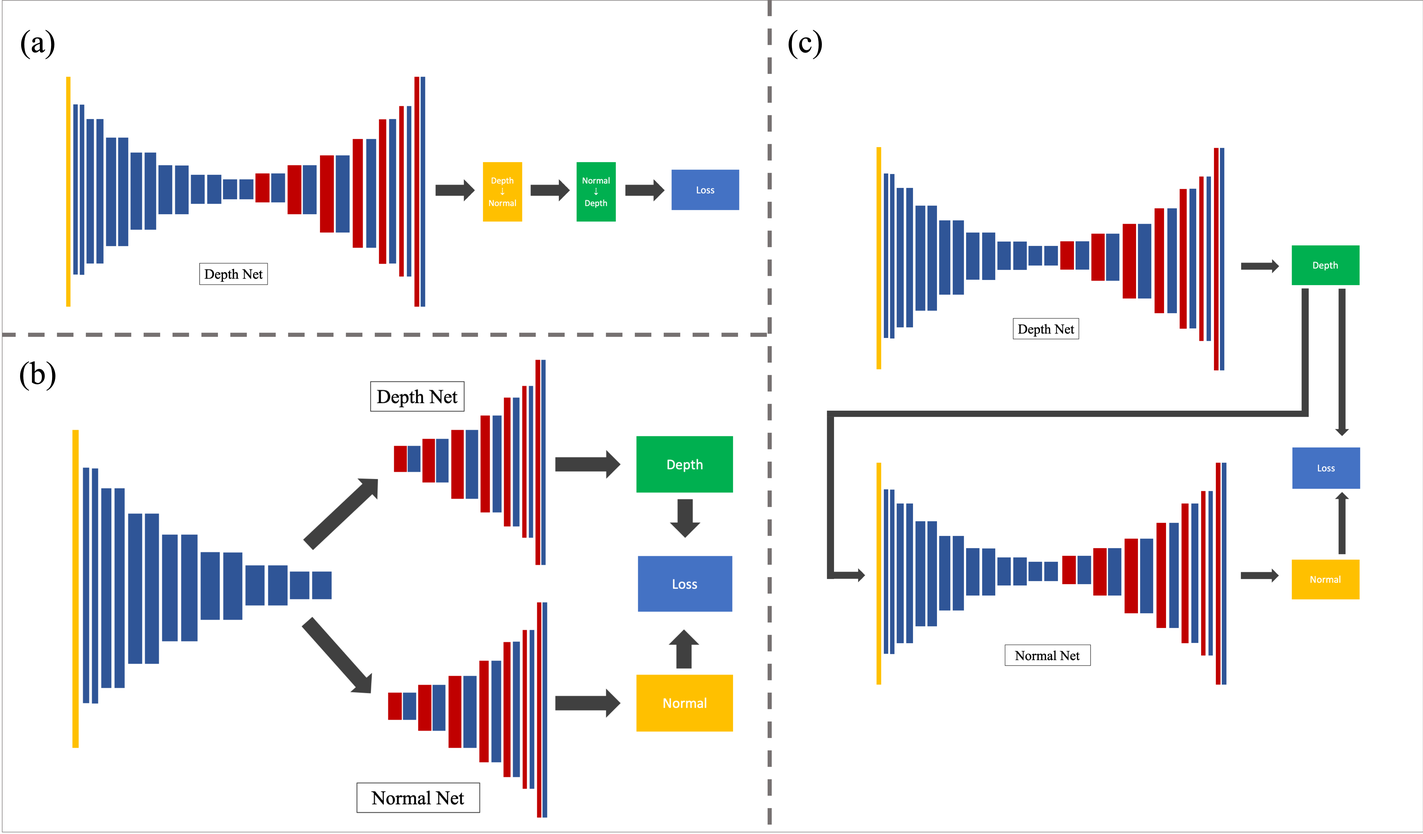
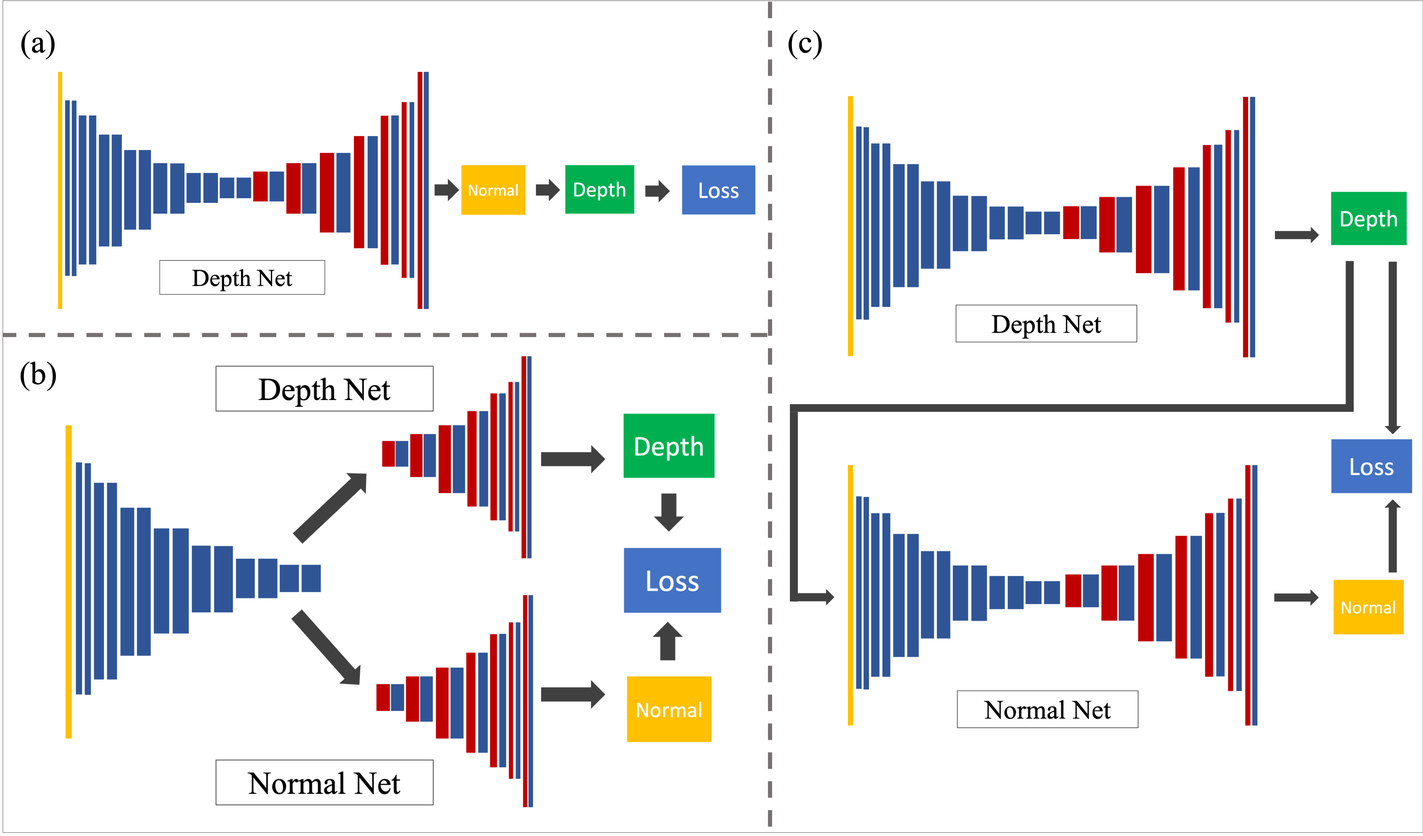
Peultimate changes

diff --git a/main.tex b/main.tex
@@ -7,6 +7,25 @@
 \usepackage{amsmath}
 \usepackage{amssymb}
 \usepackage{gensymb}
+
+\usepackage{stfloats}
+\usepackage{tablefootnote}
+
+%%%%%%%% OTHER PACKAGES
+\usepackage{float}
+\usepackage{caption} % solve for table caption spacing 
+\captionsetup[table]{skip=10pt} % to force bib position
+\usepackage[section]{placeins}
+\usepackage{subcaption}
+\usepackage{multirow} % for tabular multi-row
+\usepackage{enumitem}
+\newcommand{\denselist}{\itemsep -2pt\parsep=1pt\partopsep 0pt}
+\newcommand{\bitem}{\begin{itemize}\denselist}
+\newcommand{\eitem}{\end{itemize}}
+\newcommand{\benum}{\begin{enumerate}\denselist}
+\newcommand{\eenum}{\end{enumerate}}
+%%%%%%%%%%%%%%%
+
 \usepackage[breaklinks=true,bookmarks=false]{hyperref}
 
 \cvprfinalcopy % *** Uncomment this line for the final submission
@@ -16,7 +35,7 @@
 
 % Pages are numbered in submission mode, and unnumbered in camera-ready
 %\ifcvprfinal\pagestyle{empty}\fi
-\setcounter{page}{4321}
+\setcounter{page}{1}
 \begin{document}
 
 %%%%%%%%% TITLE
@@ -37,7 +56,7 @@ A53208258\\
 \and
 Sarah Wang\\
 A53276846\\
-{\tt\small XXXX@eng.ucsd.edu}
+{\tt\small sawang@eng.ucsd.edu}
 \and
 Tingwei Yu\\
 A53281022\\
@@ -49,22 +68,22 @@ A53281022\\
 %%%%%%%%% ABSTRACT
 \begin{abstract}
 
-Learning to reconstruct depths and camera pose from a single image in unsupervised way via deep convolutional network is attracting significant attention since Zhou proposed the unsupervised learning framework for the task of monocular depth and camera motion estimation from unstructured video sequences\cite{zhou2017unsupervised}. Our work extends their works by estimating depth map, camera pose and surface normal map together in an end-to-end framework. We verified that deep network approaches benefit from explicit geometric cues and constraints. Therefore, we take advantage both instance-level and semantic-level segmentation to make the framework edge-aware, while use the consistency between depth and normal, yielding more robust prediction for both depths, surface normals and ego-motions. Evaluations are conducted on both outdoor(KITTI) and indoor(NYUv2) datasets, also we did ablation study for different geometric constraint scenarios.  
+Learning to reconstruct depths and camera pose from a single image in unsupervised approach via deep convolutional network is attracting significant attention since Zhou proposed the unsupervised learning framework for the task of monocular depth and camera motion estimation from unstructured video sequences\cite{zhou2017unsupervised}. Our work extends their work by estimating depth map, camera pose and surface normal map together in an end-to-end framework. We verify that deep network approaches benefit from explicit geometric cues and constraints. Therefore, we take advantage both instance-level and semantic-level segmentation to make the framework edge-aware while using the consistency between depth and normal, yielding more robust prediction for both depths, surface normals and ego-motions. Evaluations are conducted on both outdoor(KITTI) and indoor(NYUv2) datasets. Ablation studies regarding different geometric constraints are conducted to compare their effectiveness.  
 
 \end{abstract}
 
 %------------------------------------------------------------------------
 
 \section{Introduction}
-Inferring camera poses, depths and surface normal of a scene at a detailed level is crucial for 3D scene understanding. Recovering these information from monocular images can be widely applied in various real-world applications. For instance, in robot navigation, this enables the robot to avoid obstacles and travel through unseen areas. The ability to estimate depth and surface normal also facilitates 3D reconstruction of the environment and can be applied in the field of augmented reality.
-Recently, there has been remarkable achievements in unsupervised pose and depth estimation using monocular cameras. Works such as \cite{zhou2017unsupervised} has significantly reduced human effort to obtain large quantities of color-depth image pairs for training while also yielding comparable results to supervised approaches. The key concept is to use two consecutive image frames where one is used as the target frame and the other used as the source frame. The source frame is then warped to the target frame using the estimated pose and depth. Following works attempt to exploit more geometric cues and constraints to improve the depth results.\cite{yang2018lego} refines the estimated depth by leveraging the constraint between surface normal and depth map as well as using image gradients to represent edges where depth discontinuities can occur.  \cite{casser2018depth} takes additional instance-level segmentation information as input and predicts poses for the background and each object separately. \\
+Inferring camera poses, depths and surface normal of a scene at a detailed level is crucial for 3D scene understanding. Recovering these information from monocular images can be widely applied in various real-world applications. For instance, in robot navigation, this enables the robot to avoid obstacles and travel through unseen areas. The ability to estimate depth and surface normal also facilitates 3D reconstruction of the environment and can be applied in the field of augmented reality. \\
+Recently, there has been large progress in unsupervised pose and depth estimation using monocular cameras. Works such as \cite{zhou2017unsupervised} has significantly reduced the human effort to obtain large quantities of ground truth color-depth image pairs for training while also yielding comparable results to supervised approaches. The key concept is to use view synthesis as supervision by warping a image in a sequence to its consecutive frames. Following works attempt to exploit more geometric cues and constraints to improve the depth results.\cite{yang2018lego} refines the estimated depth by leveraging the constraint between surface normal and depth map as well as using image gradients to represent edges where depth discontinuities can occur.  \cite{casser2018depth} takes additional instance-level segmentation information as input and predicts poses for the background and each object separately. \\
 In our work, we study the effects of posing various geometric constraints on the quality of depth estimation. First, we show that by utilizing additional semantic segmentation information, the model is able to learn the boundaries of the scene objects and generate sharper depth results. Second, we investigate how edge detection lead to better depth predictions. Last, we compare the results of the normal-depth constraint used in \cite{yang2018lego} and the patch-based photometric consistency constraint used in  \cite{furukawa2010accurate}. Evaluation on the KITTI dataset demonstrates the effectiveness of different approaches.
 
 
 %------------------------------------------------------------------------
 \section{Related work}
 \textbf{Warping-based view synthesis}
-View synthesis aims to create new view of a specific subject starting from a number of pictures taken from other point of views. Classic paradigm for view synthesis to first either estimate the underlying 3D geometry explicitly or establish pixel correspondence among input views, and then synthesized the novel views by compositing image patches from the input views\cite{malik1996modeling}\cite{fitzgibbon2005image}\cite{DBLP:journals/tog/ZitnickKUWS04}. Another common approach is to synthesize images without explicitly estimate the geometry.For example, Mahajan\cite{shechtman2010regenerative} propose to move the gradients in the input images along a specific path to reconstruct the image at a novel view. Shechtman\cite{shechtman2010regenerative} propose a patch-based optimization framework to reconstruct images at novel views. Also, the end-to-end learning based framework DeepStereo\cite{DBLP:journals/corr/FlynnNPS15}, However, unlike the warping-based methods, such frameworks only work on the inputs and output, without learning intermediate predictions of geometry and correspondence. 
+View synthesis aims to create novel view of a specific subject from images taken from other point of views. Classic paradigm for view synthesis explicitly reconstruct the accurate 3D model of the scene, then composite novel view from the input images \cite{malik1996modeling}\cite{fitzgibbon2005image}\cite{DBLP:journals/tog/ZitnickKUWS04}. Another common approach is to synthesize images without explicitly estimating the 3D geometry of the scene. For instance, Mahajan\cite{shechtman2010regenerative} proposed to move the gradients in the input images along a specific path to reconstruct the image at a novel view. Shechtman\cite{shechtman2010regenerative} proposed a patch-based optimization framework to reconstruct novel views. The end-to-end learning based framework DeepStereo\cite{DBLP:journals/corr/FlynnNPS15}, on the other hand, uses two towers to predict depth and color and fused them together to construct the novel view.  However, unlike the warping-based methods, such frameworks only work on the inputs and output, without learning intermediate predictions of geometry and correspondence. 
 \\
 \textbf{Unsupervised learning from videos} Unsupervised learning of visual representations has a
 rich history starting from original auto-encoders work of Olhausen and Field\cite{olshausen1997sparse}. To get the visual representation from video, the general goal is to design pretext tasks for learning generic visual features, that are sparse and reconstructive, from video data that can later be re-purposed for other vision tasks. Researchers have started focusing on learning feature representations using videos. Early work such as\cite{zou2012deep} focused on inclusion of constraints via video to autoencoder framework. The most common constraint is enforcing learned representations to be temporally smooth. Similar to this, Goroshin et al.\cite{goroshin2015unsupervised} proposed to learn autoencoders based on the slowness prior. Other approaches such as Taylor et al.\cite{taylor2010convolutional} trained convolutional gated RBMs to learn latent representations from pairs of successive images. This was extended in a recent work by Srivastava et al.\cite{srivastava2015unsupervised} where they proposed to learn a LSTM model in an unsupervised manner to predict future frames.
@@ -72,76 +91,157 @@ rich history starting from original auto-encoders work of Olhausen and Field\cit
 \textbf{Image segmentation}
 Semantic segmentation with the goal to assign semantic labels to every pixel in an image is one of the fundamental topics in computer vision. Deep convolutional neural networks based on the Fully Convolutional Neural Network show striking improvement over systems relying on hand-crafted features on benchmark tasks. DeepLab is a state-of-art deep learning model for semantic image segmentation. The most state-of-the-art work, DeepLabv3+\cite{deeplabv3plus2018} extends DeepLabv3\cite{chen2017rethinking} to include a simple yet effective decoder module and a spatial pyramid pooling module to refine the segmentation results especially along object boundaries. Furthermore, in this encoder-decoder structure one can arbitrarily control the resolution of extracted encoder features by atrous convolution to trade-off precision and runtime.
 %%%%%%%%%%%%%%%%5instance level here
-\subsection{Supervised surface normal prediction}
 
 
 %------------------------------------------------------------------------
 \section{Method}
-The approaches we stress here are used for jointly estimating depths, surface normal and ego-motions. The core underlying idea is inverse warping from target view to source view with awareness of 3D geometry, and a depth-normal consistency. 
+The approaches we stress here are used for jointly estimating depths, surface normal and ego-motions. The core underlying idea is inverse warping from target view to source view with awareness of 3D geometry and depth-normal consistency. 
 \subsection{Network architecture}
 \textbf{Depth and Normal Net}
-For the depth as well as surface normal estimation, we adopted the DispNet(add related) architecture which uses an encoder followed by a decoder with skip connections and multi-scale side outputs. The depth and normal net share the same encoder while having different decoders to predict depth and normals separately. Other than the final output layer which has a sigmoid function applied to enforce the predictions in an reasonable range, the other conv layers of both nets are followed by ReLU activations.\\  
+For depth and surface normal estimation, we adopted the DispNet \cite{mayer2016dispnet} architecture which uses an encoder followed by a decoder with skip connections and multi-scale side outputs. The depth and normal net share the same encoder while having different decoders to predict depth and normals separately. Other than the final output layer which has a sigmoid function applied to enforce the predictions in an reasonable range, the other conv layers of both nets are followed by ReLU activations.\\  
 \textbf{Pose Net}
-We adopted the pose net architecture purposed in (related work) for camera pose estimation. The input of the network is the target-source frame pairs, and the output is the 6D camera pose from each target frame to the source frame. All conv layers except for the final output layer, where no non-linear activation is applied, are followed by ReLU activations.
+We adopted the pose net architecture purposed in \cite{zhou2017unsupervised}, the input of the network is the target-source frame pair, and the output is the 6D camera pose from each target frame to the source frame. All conv layers are followed by ReLU activations except for the final output layer, where no non-linear activation is applied.
 \subsection{View synthesis as supervision}
-The baseline for our work is from Zhou et al.\cite{zhou2017unsupervised}. From the multiple view geometry, for a target view  image $I_t$ and a source view $I_s$, given an estimated depth map $D_t$ of target view and the estimated transformation with 6 DOF $T_{t\xrightarrow{}s}$ from $I_t$ to $I_s$, thus, for any pixel $p_t$ in target view $I_t$ can be found through perspective projection. Given such relationship, a syntehsized target view $\hat{I_s}$ can be generated from $I_s$ through bilinear interpolation. Finally, by comparing the photometric error between the original target view $I_t$ and the synthesized one $\hat{I_s}$, thus, problem now went to a supervised one. The photometric loss can be formulated as 
+Following the notation used in \cite{zhou2017unsupervised}, given a pair of images consisting of a target frame $I_t$ and a source frame $I_s$, we can estimate the depth map $\hat{D_t}$ of the target view and the 6-DOF transformation $\hat{T}_{t\xrightarrow{}s}$ from $I_t$ to $I_s$. Thus, for any pixel $p_t$ in the target frame $I_t$, its corresponding pixel coordinate in the source frame $p_s$ can be found through perspective projection. 
+
+\begin{equation}
+    p_s \sim K\hat{T}_{t\xrightarrow{}s}\hat{D_t}(p_t)K^{-1}p_t
+\end{equation}
+Using this correspondence, a synthesized target view $\hat{I_s}$ can be generated from $I_s$ through bilinear interpolation. Viewing the target frame as our reference, the photometric loss can be formulated as 
 \begin{equation}
     L_{vs} = \sum_s\sum_p |I_t(p) - \hat{I_s}(p)|
 \end{equation}
-where $p$ indexes over pixel coordinates and $I_s$ is the source view $I_s$ warped to the target coordinate frame based on a depth image-based rendering module, taking the predicated depth $\hat{D_t}$, the predicted $4 \times 4$ camera transformation matrix $\hat{T_{t\xrightarrow{}s}}$ and the source view $I_s$ as input. Thus, the projected point
-\begin{multline}
-        \hat{I_s}(p_t) = I_s(p_s)=\sum_{i\in{t,b}, j\in{l,r}} w^{ij}I_s(p_s^{ij})
-    \\
-    where\quad p_s \sim K\hat{T_{t\xrightarrow{}s}}\hat{D_t}(p_t)K^{-1}p_t
-\end{multline}
-\textbf{Regularization of depth} Due to one pixel can match to many candidates. Thus, extra regularization is required to learn reasonable depth prediction. One common strategy is to encourage the estimated depth to be locally similar when no significant image gradient exists, that is 
+by summing over all pixels $p$ and source images $s$. $\hat{I_s}$ is the source view $I_s$ warped to the target coordinate frame.\\
+\textbf{Regularization of depth} In order to produce smooth depth results, a smooth loss is added for regularization. This loss encourages the estimated depth to be locally similar when no significant image gradient exists, that is 
 \begin{equation}
-    L_s(D_t, 2) = \sum_{pt}\sum_{d\in x, y}||\bigtriangledown_d^2D_t(p_t)||e^{-\alpha|\bigtriangledown_dI(p_t)|}
-\end{equation}
-\textbf{Photometric pixel loss} In addition to the reconstruction loss and smooth loss, Structural Similarity(SSIM)\cite{wang2004image} loss was applied to be part of pixel loss, where
+    L_s = \sum_{pt}\sum_{d\in x, y}||\bigtriangledown_d^2D_t(p_t)||e^{-\alpha|\bigtriangledown_dI(p_t)|}
+\end{equation}.
+
+\textbf{Photometric pixel loss} In addition to the reconstruction loss and smooth loss, Structural Similarity(SSIM)\cite{wang2004image} loss is applied to be part of pixel loss, where
 \begin{equation}
     L_{pixel} = \alpha_{pixel} \frac{(2\mu_x\mu_y + C_1)(2\sigma_{xy} + C_2)}{(\mu_x^2 + \mu_y^2 + C1)(\sigma_x^2 + \sigma_y^2 + C_2)}
 \end{equation}
 \subsection{Edge-aware depth estimation}
-There are two components to parameterize and then learn the geometrical edges. First is to use the image gradient: we compute a gradient map of the target image and synthesized target images, and make it a gradient matching error to the total loss function\cite{casser2018depth}.
+In this section, we illustrate two ways to parameterize geometric edges. First is to use the image gradient: we compute a gradient map of the target image $I_t$ and synthesized target image $\hat{I_s}$, and require the two gradient images to match as described in \cite{yang2017unsupervised}.
 \begin{equation}
-    L_g(D_n, T, M) = \sum_{s=1}^S\sum_{x_t}M_s(x_t)||\bigtriangledown I_t(x_t) - \bigtriangledown\hat{I_s}(x_t)||_1
+    L_g = \sum_{s=1}^S\sum_{x_t}M_s(x_t)||\bigtriangledown I_t(x_t) - \bigtriangledown\hat{I_s}(x_t)||_1
 \end{equation}
-Another way is to jointly learn the edge map $E_t$ for the target image from semantic mask. Here we have the intervening contour cue fro measuring the affinity between two pixels. Specifically, we parameterize the prediction of $E_t$ using a decoder network same to dispnet, and add another edge loss term(computed from semantic masks) to loss function.
+Here, $M_s(x_t)$ is the explainablitiy mask as in \cite{zhou2017unsupervised}. Another way to parameterize edges is to jointly learn the edge map $E_t$ for the target image from semantic mask. Here we have the intervening contour cue for measuring the affinity between two pixels. Specifically, we parameterize the prediction of $E_t$ using a decoder network same to DispNet, and add another edge loss term(computed from semantic masks) to loss function.
 \subsection{Depth-normal consistency constraints}
-\textbf{Depth and normal orthogonality constraint} To train the normal network, we applied the depth-normal orthogonality constraint purposed in (xx) to our network. This could enforce the predicted surface normal to be perpendicular to its tangent plane. Where for each pixel $p_i$ in the target view, we compute sum of the dot products between the estimated normal and the vectors pointing from the pixel to it's 8 neighboring pixels as shown in figure ?. The equation is written as,
+\textbf{Depth and normal orthogonality constraint} To train the normal network, we applied the depth-normal orthogonality constraint purposed in \cite{yang2017unsupervised} to our network. This could enforce the predicted surface normal to be perpendicular to its tangent plane. Where for each pixel $x_i$ in the target view, we compute sum of the absolute dot products between the estimated normal and the vectors pointing from the pixel to it's 8 neighboring pixels as shown in \ref{fig:8point}. The equation is written as,
 \begin{multline}
-    L_{orth}(\hat{D_t}, \hat{N_t}) = \sum_{i\in t}\sum_{j\in Nei(i)}||[ \phi(x_j) - \phi(x_i)] \hat{N_t}(x_i)||_1 
+    L_{orth} = \sum_{i\in t}\sum_{j\in Nei(i)}||[ \phi(x_j) - \phi(x_i)] \hat{N_t}(x_i)||_1 
     \\
-    where\phi(x) = D_t(x)K^{-1}x
+where \phi(x) = D_t(x)K^{-1}x
 \end{multline}
-
-where $Nei(x_i)$ is the set of 8 neighboring pixels of $x_i$, and $\hat N(x_i)$ and $\hat D(x_i)$ are the estimated surface normal and depth of the corresponding pixel. We define $\phi(x_i)$ as the back-projected 3D point of pixel $x_i$ in the 3D space, thus $\phi(x_j) - \phi(x_i)$ is the vector pointing from the center pixel to the neighboring pixels in the world coordinates. \\
+where $Nei(x_i)$ denotes the set of 8 neighboring pixels of $x_i$, $K$ the camera intrinsic matrix and $\hat N(x_i)$ and $\hat D(x_i)$ the estimated surface normal and depth of the corresponding pixel, respectively. We define $\phi(x_i)$ as the back-projected 3D point of pixel $x_i$ in the 3D space, thus $\phi(x_j) - \phi(x_i)$ is the vector pointing from the center pixel to the neighboring pixels in the world coordinates. \\
 Since we don't have direct supervision for $N(x_i)$, training for the above equation would result into always predicting the values in $\hat{N}$ to zero. Thus we concluded an additional regularization term $L_n$ in the loss function, where we enforce the norm the predicted surface normal to be 1.
 \\
-\textbf{Patch-based depth and normal constraint} Through experiments we observed that only enforcing the depth and normal orthogonality correlation could not provide our network enough geometry cues to reconstruct the surface normals.(fig.?) Thus, we applied the patched-based depth and normal constraint to our network based on previous works (add related works). For each pixel in the target image, we reconstructed a $n\times n$ patch in the 3D space with the center calculated by back-projecting the pixels(fig.?). The orientation of the patch is given by the estimated surface normal and we assign one of its edges to be parallel to the x-axis of the target frame. Through re-projecting each patch back in to the target image $I_t$ as well as the source image $I_s$, we sample the intensities of the patch in both views through bilinear interpolation to acquire $I_{p_ti}$ and $I_{p_si}$. The loss term $L_{patch}$ is then the sum of L1 difference of the intensities between each pair of patches. (fig. ?)
-\subsection{Geometric structure refinement}
-% \subsection{Photometric error from view synthesis}
+\textbf{Patch-based depth and normal constraint} Through experiments we observed that by only enforcing the depth and normal orthogonality correlation could not provide our network enough geometry cues to reconstruct the surface normal.(fig. \ref{fig:KITTI_orth}) Thus, we applied the patched-based depth and normal constraint to our network based on previous works \cite{furukawa2010accurate}. For each pixel in the target image, we reconstructed a $\mu \times \mu$ patch $p$ in the 3D space with the center calculated by back-projecting the pixel (fig.\ref{fig:patch}). The orientation of the patch is given by the estimated surface normal and we assign one of its edges to be parallel to the x-axis of the target frame. Through re-projecting each patch back in to the target image $I_t$ as well as the source image $I_s$, we sample the intensities of the patch in both views through bilinear interpolation to acquire $I_{t,p_i}$ and $I_{s,p_i}$. The loss term $L_{patch}$ is then the sum of L1 difference of the intensities between each pair of patches. 
+\begin{figure}
+  \includegraphics[width=\columnwidth ]{8point.png}
+  \caption{Depth and normal orthogonality constraint. To enforce the predicted surface to be perpendicular to the tangent surface, we compute the dot product between the estimated normal and the 8 vectors pointing from the center pixel to the neighboring pixels.}
+  \label{fig:8point}
+\end{figure}
+\begin{figure}
+  \includegraphics[width=\columnwidth ]{patch.png}
+  \caption{Patched-based depth and normal constraint. For each pixel, we reconstruct a patch in the 3D space. The center of the patch $c(x)$ is obtained by back-projecting the pixel with the estimated depth, intrinsic matrix and extrinsic matrix. The orientation of the patch is given by estimated normal $N(x)$.}
+  \label{fig:patch}
+\end{figure}
+
+\subsection{Object motion model with semantic priors}
+Adapting the work of \cite{casser2018depth} which explicitly models the 3D motion of dynamic objects along with ego-motion of camera, we extend this work further by integrating semantic information of scene to improve depth prediction. Intuitively, semantic information encodes spatial constraints which can explain depth and normal discontinuities. Our depth network takes as input RGB sequence along with corresponding semantic segmentation(pixel-wise), encoded in one-hot encoding format. The ego-motion network $\phi_{E}$ is used to predict egomotion of static background and object motion model $\phi_{M}$ is used to predict motion of individual dynamic objects. $\phi_{E}$ and $\phi_{M}$ share the same architecture but different inputs. 
+
+We define instance-aligned segmentation masks $(S_{1}, S_{2}, S_{3})$ for corresponding sequence $(I_{1}, I_{2}, I_{3})$. In order to compute egomotion motion of static scene only, we define static scene binary mask $(O_{1}, O_{2}, O_{3})$ where $O_{i}'s$ are binary complement of $S_{i}'s$. The static binary mask is applied to all images in sequence by element-wise multiplication to mask out dynamic objects before feeding the sequence to ego-motion model:
+\begin{multline}
+    V = O_{1} \odot O_{2} \odot O_{3} 
+    \\
+E_{1\rightarrow2}, E_{2\rightarrow3} = \phi_{E}(I_{1} \odot V, I_{2} \odot V, I_{3} \odot V) 
+\end{multline}
+
+To compute object motion model, we first apply ego-motion estimates to get warped RGB sequences $(\hat I_{1\rightarrow2}, I_{2}, \hat I_{3\rightarrow2}$ and instance-aligned segmentation sequences $(\hat S_{1\rightarrow2}, S_{2}, \hat S_{3\rightarrow2}$. Now, for every object instance in image, the object motion estimate $M^{(i)}$ of the \textit{i}-th object is computed as:
+
+\begin{multline}
+        M_{1\rightarrow2}^{(i)}, M_{2\rightarrow3}^{(i)} = \phi_{M}(\hat I_{1\rightarrow2} \odot \psi_{i}(\hat S_{1\rightarrow2}),
+    \\
+    I_{2} \odot \psi_{i}(S_{2}), \hat I_{3\rightarrow2} \odot \psi_{i}(\hat S_{3\rightarrow2})
+\end{multline}
+
+where $M_{1\rightarrow2}^{(i)}, M_{1\rightarrow2}^{(i)} \in \mathbb{R}^{6}$ and $\psi_{i}(S_{1})$ returns binary mask only for object \textit{i} in  $S_{1}$. Now, corresponding to these motion estimates, inverse warping is done to move the objects according to predicted motions. This is done by first warping the full image using motion estimate and then masking out the corresponding object. For example, $\hat I_{1\rightarrow2}^{(i)}$ is obtained by using motion estimate $M_{1\rightarrow2}^{(i)}$. Final warped image is a combination of warped static background and individual warping of each dynamic object. Final warped image $\hat I_{1\rightarrow2}^{(F)}$ given by:
+
+\begin{multline}
+\hat I_{1\rightarrow2}^{(F)} = \hat I_{1\rightarrow2} \odot V + \sum_{i=1}^{N} \hat I_{1\rightarrow2}^{(i)} \odot \psi_{i}(S_{2})
+\end{multline}
+
+Equivalent for $\hat I_{3\rightarrow2}^{(F)}$ can be found using above equation. We also impose object size constraint as in \cite{casser2018depth}, to make sure the network is learning reasonable depth matching object motion estimates. 
+\begin{figure}
+    \centering
+    \includegraphics[width=\linewidth]{architecture.png}
+    \caption{Our unsupervised architecture contains DepthNet, PoseNet and MotionNet}
+    \label{fig:arch}
+\end{figure}
+%%%%%%%%%%%%%%% RESULT
+\begin{figure}[t]
+  \includegraphics[width=\columnwidth]{dresult.png}
+  \caption{Depth-result using our best model}
+  \label{fig:depth_result}
+\end{figure}
 %------------------------------------------------------------------------
+
+\begin{table*}[htbp]
+\centering
+\begin{tabular}{ c||c| c c c c|c c c  }
+ \hline
+  \multirow{2}{*}{Method} & \multirow{2}{*}{Supervised} & \multicolumn{4}{c|}{Error-related metrics} & \multicolumn{3}{c}{Accuracy-related metrics}\\
+  &   & Abs Rel & Sq Rel & RSME & RSME log & $\delta < 1.25$ & $\delta < 1.25^2$ & $\delta < 1.25^3$\\
+ \hline
+ Eigen \textit{et al.} \cite{eigen2014depth} Coarse & Depth & 0.214 & 1.605 & 6.653 & 0.292 & 0.673 & 0.884 & 0.957 \\
+
+  Eigen \textit{et al.} \cite{eigen2014depth} Fine & Depth & 0.203 & 1.548 & 6.307 & 0.282 & 0.702 & 0.890 & 0.957 \\
+
+  Liu \textit{et al.}  \cite{liu2016learning} & Depth & 0.202 & 1.614 & 6.523 & 0.275 & 0.678 & 0.895 & 0.965 \\
+
+  Godard \textit{et al.} \cite{godard2017unsupervised}  & Pose & 0.148 & 1.344 & 5.927 & 0.247 & 0.803 & 0.922 & 0.964 \\
+
+  Zhou \textit{et al.} \cite{zhou2017unsupervised} updated & No & 0.183 & 1.595 & 6.709 & 0.270 & 0.734 & 0.902 & 0.959\\
+
+  Yin \textit{et al.} \cite{yin2018geonet} & No & 0.155 & 1.296 & 5.857 & 0.233 & 0.793 & 0.931 & 0.973 \\
+
+  \hline
+  \textbf{Ours[]} & No & \textbf{0.133} &     \textbf{0.905} &     \textbf{5.181} &     \textbf{0.208} &     \textbf{0.825} &     \textbf{0.947} &     \textbf{0.981}\\
+  
+  Ours(joint training, orthogonality constraint) & No & 0.2488 & 4.9442 & 8.1843 & 0.3169 & 0.6992 & 0.8776 & 0.9425 \\
+  
+  Ours(SSIM weight 0.3 - sec3.2) & No &  0.2061 & 2.8608 & 6.9693 & 0.2780 & 0.7349 & 0.9016 &     0.9561 \\
+  
+  Ours(gradient weight 0.3 - sec3.3) & No & 0.2189 & 3.1845 & 7.3001 & 0.2836 & 0.7288 & 0.8973 &  0.9551 \\
+ \hline
+\end{tabular}
+\caption{Monocular depth results on KITTI 2015 \cite{menze2015object} by the split of Eigen
+\textit{et al.} \cite{eigen2014depth} Our model used scale normalization.}\label{tab:depth_pred}
+\end{table*}
+
+
 \section{Experiments}
+\begin{figure}
+  \includegraphics[width=\columnwidth ]{network.png}
+  \caption{Network architectures for different experiments. (a) For the edge-aware experiments, the network architecture is based on (include related work), where we compute the normal directly from the predicted depth. (b)While evaluating the patch based photo-consistency constraints, the normal and depth net shares a single encoder and uses different decoders to separately predict depth. (c)To train the normal network with only the depth and normal orthogonality constraint, we froze the depth network and individually trained the normal network with an additional estimated depth input to get reasonable results.}
+  \label{fig:network}
+\end{figure}
+
 \subsection{Datasets and metrics}
 We conducted experiments on depth and normal estimation. The performances are evaluated on two popular datasets: KITTI for outdoor scene and NYUv2 for indoor scene.
 For depth evaluation, we adopted those used in Zhou et al.\cite{zhou2017unsupervised}, details are shown on table\ref{table1:depth_eval}
-\begin{figure*}[t!]
-  \includegraphics[width=\linewidth]{network.png}
-  \caption{Network architectures for different experiments}
-  \label{fig:network}
-\end{figure*}
 
 \begin{table*}
 \centering
-\caption{Depth evaluation metrics}
 \label{table1:depth_eval}
 \begin{tabular}{l|l}
  Threshold: $\% of y_i, s.t. max(\frac{y_i}{y_i^*}, \frac{y_i^*}{y_i})=\delta < thr $&  RMSE(linear):$\sqrt{\frac{1}{|T|}\sum_{y\inT}||y_i - y_i^*||^2}$ \\
  Abs Relative difference: $\frac{1}{|T|}\sum_{y\in T||y-y^*||/y^*}$ &  RMSE(log):$\sqrt{\frac{1}{|T|}\sum_{y \in T}||log y_i - log y_i^*||^2}$ \\
  Squared Relative difference:$\frac{1}{|T|}\sum_{y\in T||y-y^*||^2/y^*}$ & 
 \end{tabular}
+\caption{Depth evaluation metrics}
 \end{table*}
 
 For normal evaluation, we
@@ -149,46 +249,24 @@ implement the evaluation metrics in\cite{fouhey2013data}: in addition to reporti
 RMSE on a per-pixel-basis, we report three pixel-accuracy
 metrics, or percent-good-pixels (i.e., the fraction of pixels with cosine distance to ground-truth less than t) with $t = 11.25\degree, 22.5\degree, 30\degree$.
 
-\subsection{Depth and normal experiments}
-Like \cite{zhou2017unsupervised}, We implemented the system using TensorFlow framework. For all the experiments, we set $\lambda_s = 0:5=l$ (l is the downscaling factor for the corresponding scale) and $\lambda_e = 0:2$. During training, we used batch normalization for all the layers except for the output layers, and the Adam optimizer with $\beta_1 = 0:9$, $\beta_2 = 0:999$, learning rate of $0:0002$ with $\%95\%$ decay and mini-batch size of 4. The training typically converges after about 150K iterations. All the experiments are performed with image sequences captured with a monocular camera. We resize the images to $128 × 416$ during training.
-For ssim pixel loss, weight is set to 0.3. For depth edge-awareness training, we set the gradient weight to 0.5, while use the semantic mask as input to edge net and the weight is set to 0.3.
-For normal map, there are two ways that make the normal map contribute to the final result: first is to set the normal smooth loss and second is to do depth-normal constraints. Here we apply normal smooth loss term the same to depth, 0.5. During the training times, we also test various weight to add depth-normal constriants(infer normal from depth and back compute depth from normal).\\
+\subsection{Training}
+Like \cite{zhou2017unsupervised}, We implemented the system using TensorFlow framework. For all the experiments, we set $\lambda_s = 0.5=l$ (l is the downscaling factor for the corresponding scale) and $\lambda_e = 0.2$. During training, we used batch normalization for all the layers except for the output layers, and the Adam optimizer with $\beta_1 = 0:9$, $\beta_2 = 0:999$, learning rate of $0.0002$ with $\%95\%$ decay and mini-batch size of 4. The training typically converges after about 150K iterations. All the experiments are performed with image sequences captured with a monocular camera. We resize the images to $128 × 416$ during training.
+\\
 Similar to Yang et al.\cite{yang2018lego}, we evaluate the normal map(either from direct-prediction or from depth inference) by comparing to the ground truth normal, which is generated by applying depth-to-normal layer on interpolated depth ground truth. The normal evaluation is performed
 on KITTI dataset. The comparison of normal evaluations on KITTI split is presented in???. 
+\subsection{Edge-aware depth experiments}
+In this section we experimented edge-aware methods with the architecture shown in fig.\ref{fig:network}(a). We obtain the surface normal by directly computing from the estimated depth and calculate the loss as mentioned in \cite{yang2017unsupervised}, where it is inferred  directly from the predicted depth. For SSIM pixel loss, weight is set to 0.3. For depth edge-awareness training, we set the gradient weight to 0.5, while use the semantic mask as input to edge net and the weight is set to 0.3.
+To leverage the normals in our loss function, we add an additional normal smooth loss term as we did for the depth and set the weight to 0.5. The results are shown in the \ref{table1:depth_eval}.
 
-\subsection{Direct normal prediction experiments}
-In this section we analyze our approaches on directly predicting the normals qualitatively and quantitatively. 
+\subsection{Normal Net experiments}
+In this section we analyze our approaches on directly predicting the surface normal qualitatively. 
 \\
 \textbf{Evaluation on the depth and normal orthogonalily constraint}
-To evaluate the depth and normal orthogonality constraint, we first jointly train the depth and normal net by only leveraging the $L_{vs}$ and $L_{orth}$ in our loss function. Yet, the results aren't very promising.(table.?) The network can not generate meaningful surface normal and also degraded the depth predictions. Thus, we independently train the normal net along with the pre-trained depth net to obtained more meaningful results. As can be seen in figure xx, we could roughly determine the road of the scene but geometric detail information are not observed by the network.
+To evaluate the depth and normal orthogonality constraint, we first jointly train the depth and normal net by only leveraging the $L_{vs}$ and $L_{orth}$ in our loss function. Yet, the results aren't very promising (table.\ref{table1:depth_eval}). The network can not generate meaningful surface normal and also degraded the depth predictions. Thus, we independently train the normal net along with the pre-trained depth net to obtained more meaningful results(fig.\ref{fig:network}(c)). As can be seen in figure.\ref{fig:KITTI_orth}, we can roughly determine the road of the scene but geometric detail information are not observed by the network.
 \\
 \textbf{Evaluation on the patch-based photometric constraint}
-We evaluate the patch-based photometric constraint by adding the $L_{orth}$ term in our loss function. In Fig.? we show a qualitative result of this approach. As can been seen, the estimated normal could roughly capture the contours of the scene; however, there are still some spurious blob in the image. 
+We evaluate the patch-based photometric constraint by adding the $L_{patch}$ term in our loss function. We implement the network architecture of this experiment as shown in figure.\ref{fig:network}(b). In (fig.\ref{fig:KITTI_patch}) we show a qualitative result of this approach. As can been seen, the estimated normal could roughly capture the contours of the scene; however, there are still some spurious blob in the image. 
 
-
-
-
-
-
-
-\subsection{Results}
-
-
-
-
-
-
-\begin{figure*}[t!]
-  \includegraphics[width=\linewidth]{output.jpg}
-  \caption{Experiment results on KITTI}
-  \label{fig:KITTI}
-\end{figure*}
-
-\begin{figure*}[t!]
-  \includegraphics[width=\linewidth]{patch_based.jpg}
-  \caption{Patch-based experiment results on KITTI}
-  \label{fig:KITTI}
-\end{figure*}
 
 
 %------------------------------------------------------------------------
@@ -198,7 +276,14 @@ Future work is to try refinement methodology as explained in \cite{casser2018dep
 Patch-based loss, to simultaneously improve depth and normal.
 Generalize model for depth and normal prediction to other datasets like Cityscape.
 
-
+\begin{figure*}
+  \includegraphics[width=\linewidth]{output.jpg}
+  \caption{Experiment results on KITTI with only the depth and normal constraint}
+  \label{fig:KITTI_orth}
+  \includegraphics[width=\linewidth]{patch_based.jpg}
+  \caption{Patch-based experiment results on KITTI}
+  \label{fig:KITTI_patch}
+\end{figure*}
 %------------------------------------------------------------------------
 
 % \begin{table}
